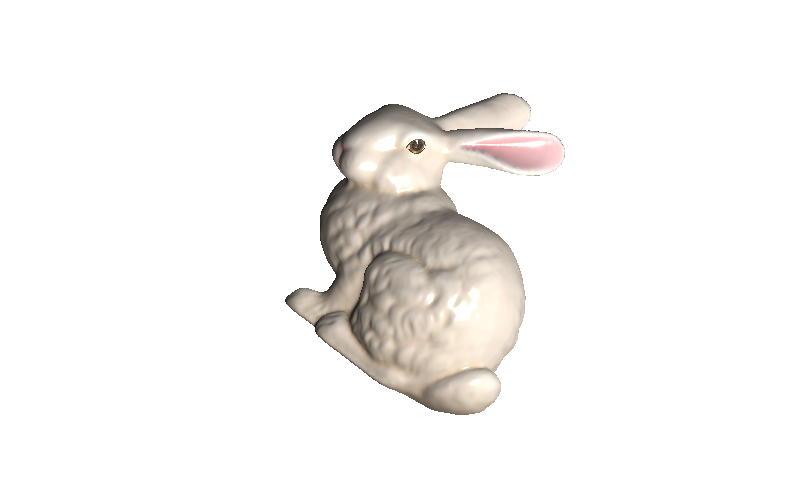
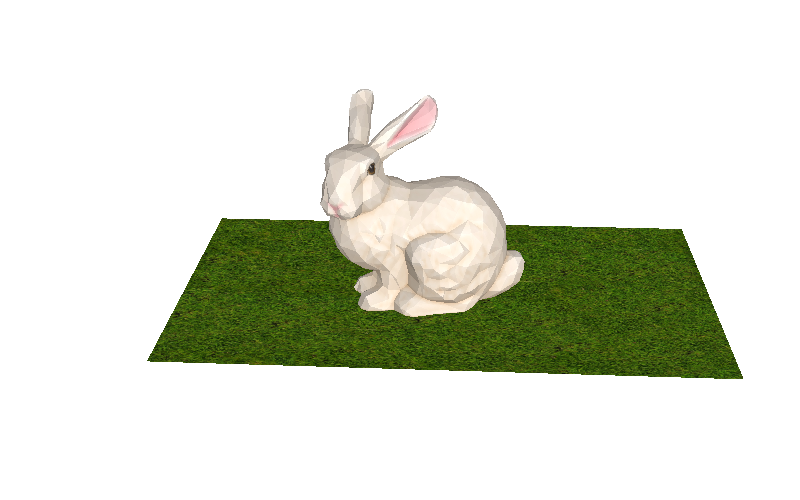
bench: redo

Changed region(s): [[0.1875, 0.18, 0.9375, 0.84]]

diff --git a/bench/main.go b/bench/main.go
@@ -2,70 +2,98 @@ package main
 
 import (
 	"fmt"
+	"image"
 	"image/color"
+	"image/png"
+	"os"
 	"testing"
 	"time"
 
-	"changkun.de/x/ddd"
+	"changkun.de/x/ddd/camera"
+	"changkun.de/x/ddd/geometry"
+	"changkun.de/x/ddd/light"
+	"changkun.de/x/ddd/material"
+	"changkun.de/x/ddd/math"
+	"changkun.de/x/ddd/rend"
 )
+
+func loadMesh(path string) *geometry.TriangleMesh {
+	f, err := os.Open(path)
+	if err != nil {
+		panic(fmt.Errorf("loader: cannot open file %s, err: %v", path, err))
+	}
+	m, err := geometry.LoadOBJ(f)
+	f.Close()
+	if err != nil {
+		panic(fmt.Errorf("cannot load obj model, path: %s, err: %v", path, err))
+	}
+	return m
+}
+
+func loadTexture(path string) *material.Texture {
+	f, err := os.Open(path)
+	if err != nil {
+		panic(fmt.Errorf("loader: cannot open file %s, err: %v", path, err))
+	}
+	img, err := png.Decode(f)
+	f.Close()
+	if err != nil {
+		panic(fmt.Errorf("cannot load obj model, path: %s, err: %v", path, err))
+	}
+	var data *image.RGBA
+	if v, ok := img.(*image.NRGBA); ok {
+		data = (*image.RGBA)(v)
+	} else if v, ok := img.(*image.RGBA); ok {
+		data = v
+	}
+
+	return material.NewTexture(data)
+}
 
 func main() {
 	result := testing.Benchmark(func(b *testing.B) {
 		width, height := 800, 500
+		s := rend.NewScene()
 
-		// create rasterizer
-		r := ddd.NewRasterizer(width, height)
-
-		// load obj model
-		m, err := ddd.LoadOBJ("../tests/bunny.obj")
-		if err != nil {
-			panic(fmt.Sprintf("cannot load obj model, err: %v", err))
-		}
-
-		// set model matrix
-		m.SetScale(ddd.Vector{1500, 1500, 1500, 0})
-		m.SetTranslate(ddd.Vector{-700, -5, 350, 1})
-
-		// set texture
-		err = m.SetTexture("../tests/texture.jpg", 150)
-		if err != nil {
-			panic(fmt.Sprintf("cannot load model texture, err: %v", err))
-		}
-
-		// set the camera
-		r.SetCamera(ddd.NewPerspectiveCamera(
-			ddd.Vector{-550, 194, 734, 1},
-			ddd.Vector{-1000, 0, 0, 1},
-			ddd.Vector{0, 1, 1, 0},
+		c := camera.NewPerspectiveCamera(
+			math.NewVector(-0.5, 0.5, 0.5, 1),
+			math.NewVector(0, 0, -0.5, 1),
+			math.NewVector(0, 1, 0, 0),
+			45,
 			float64(width)/float64(height),
-			100, 600, 45,
-		))
-		r.SetCamera(ddd.NewOrthographicCamera(
-			ddd.Vector{-550, 194, 734, 1},
-			ddd.Vector{-1000, 0, 0, 1},
-			ddd.Vector{0, 1, 1, 0},
-			-float64(width)/2, float64(width)/2,
-			float64(height)/2, -float64(height)/2,
-			200, -200,
-		))
-
-		// construct scene graph
-		s := ddd.NewScene()
-		r.SetScene(s)
-		s.AddMesh(m)
-		l := ddd.NewPointLight(
-			color.RGBA{255, 255, 255, 255},
-			ddd.Vector{-200, 250, 600, 1}, 0.5, 0.6, 1,
+			-0.1,
+			-3,
 		)
+		s.UseCamera(c)
+
+		l := light.NewPointLight(color.RGBA{0, 0, 0, 255}, math.NewVector(-200, 250, 600, 1))
 		s.AddLight(l)
 
+		m := loadMesh("../testdata/bunny.obj")
+		tex := loadTexture("../testdata/bunny.png")
+		mat := material.NewBlinnPhongMaterial(tex, color.RGBA{0, 125, 255, 255}, 0.6, 1, 0.5, 150)
+		m.UseMaterial(mat)
+		m.Rotate(math.NewVector(0, 1, 0, 0), -math.Pi/6)
+		m.Translate(0, -0, -0.4)
+		s.AddMesh(m)
+
+		m = loadMesh("../testdata/ground.obj")
+		tex = loadTexture("../testdata/ground.png")
+		mat = material.NewBlinnPhongMaterial(tex, color.RGBA{0, 125, 255, 255}, 0.6, 1, 0.5, 150)
+		m.UseMaterial(mat)
+		m.Rotate(math.NewVector(0, 1, 0, 0), -math.Pi/6)
+		m.Translate(0, -0, -0.4)
+		s.AddMesh(m)
+
+		r := rend.NewRasterizer(width, height, 1)
+		var buf []color.RGBA
 		b.ResetTimer()
 		for i := 0; i < b.N; i++ {
-			r.Render()
+			buf = r.Render(s)
 		}
 		b.StopTimer()
 
-		r.Save("./render.jpg")
+		r.Save(buf, "./render.jpg")
 	})
 
 	ns := result.NsPerOp()

diff --git a/README.md b/README.md
@@ -1,67 +1,56 @@
 # ddd
 
-ddd is a 3d rasterizer written in pure Go.
+ddd is a 3d renderer written in pure Go.
 
-```
+```go
 import "changkun.de/x/ddd"
 ```
 
 ## Usage
 
 ```go
-width, height := 800, 500
+width, height := 1920, 1080
 
-// create rasterizer
-r := ddd.NewRasterizer(width, height)
+// Create scene graph
+s := rend.NewScene()
 
-// load obj model
-m, err := ddd.LoadOBJ("path/to/bunny.obj")
-if err != nil {
-    panic(fmt.Sprintf("cannot load obj model, err: %v", err))
-}
-
-// set model matrix
-m.SetScale(ddd.Vector{1500, 1500, 1500, 0})
-m.SetTranslate(ddd.Vector{-700, -5, 350, 1})
-
-// set texture
-err = m.SetTexture("path/to/texture.jpg", 150)
-if err != nil {
-    panic(fmt.Sprintf("cannot load model texture, err: %v", err))
-}
-
-// set the camera
-r.SetCamera(ddd.NewPerspectiveCamera(
-    ddd.Vector{-550, 194, 734, 1},
-    ddd.Vector{-1000, 0, 0, 1},
-    ddd.Vector{0, 1, 1, 0},
+// Specify camera settings
+c := camera.NewPerspectiveCamera(
+    math.NewVector(-0.5, 0.5, 0.5, 1),
+    math.NewVector(0, 0, -0.5, 1),
+    math.NewVector(0, 1, 0, 0),
+    45,
     float64(width)/float64(height),
-    100, 600, 45,
-))
-r.SetCamera(ddd.NewOrthographicCamera(
-    ddd.Vector{-550, 194, 734, 1},
-    ddd.Vector{-1000, 0, 0, 1},
-    ddd.Vector{0, 1, 1, 0},
-    -float64(width)/2, float64(width)/2,
-    float64(height)/2, -float64(height)/2,
-    200, -200,
-))
-
-// construct scene graph
-s := ddd.NewScene()
-r.SetScene(s)
-s.AddMesh(m)
-l := ddd.NewPointLight(
-    color.RGBA{255, 255, 255, 255},
-    ddd.Vector{-200, 250, 600, 1}, 0.5, 0.6, 1,
+    -0.1,
+    -3,
 )
+s.UseCamera(c)
+
+// Add light sources
+l := light.NewPointLight(color.RGBA{0, 0, 0, 255}, math.NewVector(-200, 250, 600, 1))
 s.AddLight(l)
 
-// render!
-r.Render()
+// Load assets
+m := loadMesh("../testdata/bunny.obj")
+tex := loadTexture("../testdata/bunny.png")
+mat := material.NewBlinnPhongMaterial(tex, color.RGBA{0, 125, 255, 255}, 0.6, 1, 0.5, 150)
+m.UseMaterial(mat)
+m.Rotate(math.NewVector(0, 1, 0, 0), -math.Pi/6)
+m.Translate(0, -0, -0.4)
+s.AddMesh(m)
 
-// save result
-r.Save("path/to/render.jpg")
+// Load another assets
+m = loadMesh("../testdata/ground.obj")
+tex = loadTexture("../testdata/ground.png")
+mat = material.NewBlinnPhongMaterial(tex, color.RGBA{0, 125, 255, 255}, 0.6, 1, 0.5, 150)
+m.UseMaterial(mat)
+m.Rotate(math.NewVector(0, 1, 0, 0), -math.Pi/6)
+m.Translate(0, -0, -0.4)
+s.AddMesh(m)
+
+// Create the rasterizer and render it.
+r := rend.NewRasterizer(width, height, 1)
+r.Save(r.Render(s), "./render.jpg")
 ```
 
 ![](./bench/render.jpg)
@@ -70,26 +59,24 @@ See complete example [here](./bench/main.go).
 
 ## Benchmark
 
-The CPU rasterizer can render the bench example >300fps:
-
 ```sh
-
 $ cd bench && go build
 $ for i in {1..10}; do perflock -governor 80% ./bench; done
-BenchmarkRasterizer     343     3498860 ns/op   285.80737726002184 fps
-BenchmarkRasterizer     344     3459285 ns/op   289.0770780667103 fps
-BenchmarkRasterizer     345     3472535 ns/op   287.9740592967385 fps
-BenchmarkRasterizer     345     3473249 ns/op   287.91486012088393 fps
-BenchmarkRasterizer     337     3456515 ns/op   289.3087401616947 fps
-BenchmarkRasterizer     345     3494367 ns/op   286.1748637163755 fps
-BenchmarkRasterizer     345     3470063 ns/op   288.17920596830663 fps
-BenchmarkRasterizer     345     3481662 ns/op   287.2191499347151 fps
-BenchmarkRasterizer     345     3464998 ns/op   288.60045518063794 fps
-BenchmarkRasterizer     344     3468320 ns/op   288.32403007796285 fps
+BenchmarkRasterizer     40      28539371 ns/op  35.039314636612 fps
+BenchmarkRasterizer     42      29070529 ns/op  34.39909882616859 fps
+BenchmarkRasterizer     42      30322510 ns/op  32.97880023784311 fps
+BenchmarkRasterizer     38      29042832 ns/op  34.43190388595713 fps
+BenchmarkRasterizer     42      28728505 ns/op  34.8086334461191 fps
+BenchmarkRasterizer     42      28635385 ns/op  34.921828360261266 fps
+BenchmarkRasterizer     39      28476114 ns/op  35.117151167466176 fps
+BenchmarkRasterizer     42      28535627 ns/op  35.04391194908736 fps
+BenchmarkRasterizer     42      29167186 ns/op  34.2851038149515 fps
+BenchmarkRasterizer     42      28533852 ns/op  35.04609191917026 fps
+
 $ inxi -C
 CPU: Topology: 8-Core model: Intel Core i9-9900K bits: 64 type: MT MCP L2 cache: 16.0 MiB Speed: 800 MHz min/max: 800/5000 MHz Core speeds (MHz): 1: 800 2: 800 3: 800 4: 800 5: 800 6: 800 7: 800 8: 801 9: 800 10: 800 11: 800 12: 800 13: 800 14: 800 15: 800 16: 800
 ```
 
 ## License
 
-GNU GPLv3 &copy; [Changkun Ou](https://changkun.de)
+Copyright &copy; 2020-2021 [Changkun Ou](https://changkun.de). All rights reserved.
